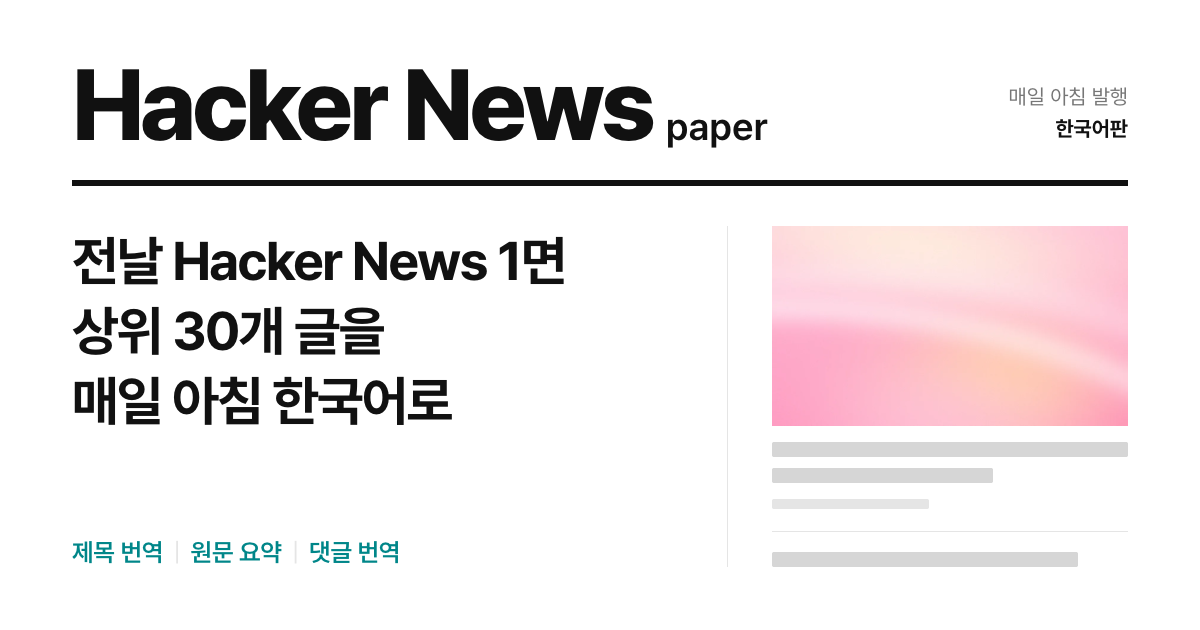
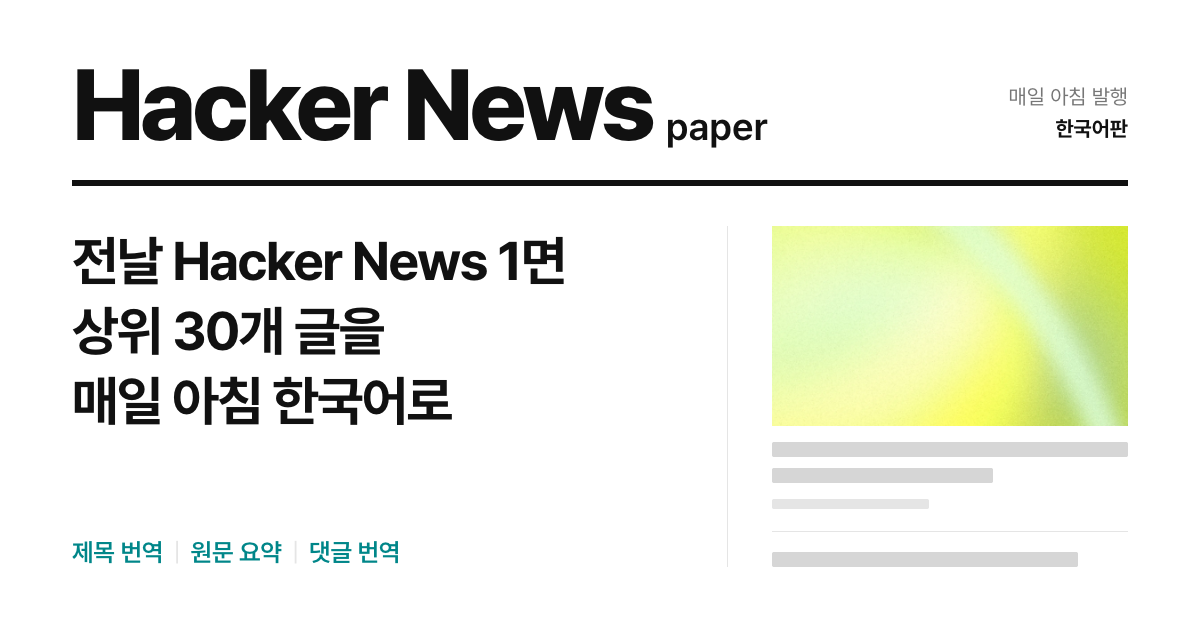
chore: 사이트 공유 이미지(og.png)의 썸네일을 새 패널 bloom-03으로 교체

Changed region(s): [[0.6167, 0.3317, 0.9558, 0.6937]]

diff --git a/scripts/og-image.html b/scripts/og-image.html
@@ -33,7 +33,7 @@
 
   /* 오른쪽: 1면 기사 칸을 줄여 그린 그림(사진 + 제목 줄, 아래 기사 한 줄) */
   .card{padding-left:44px}
-  .thumb{aspect-ratio:16/9;background:var(--ph) url("../src/HnPaper.Web/wwwroot/img/gradients/g05.webp") center/cover}
+  .thumb{aspect-ratio:16/9;background:var(--ph) url("../src/HnPaper.Web/wwwroot/img/gradients/bloom-03.webp") center/cover}
   .bar{height:15px;margin-top:16px;background:#d6d6d6;border-radius:2px}
   .bar.short{width:62%;margin-top:11px}
   .bar.meta{width:44%;height:10px;margin-top:16px;background:var(--line)}
